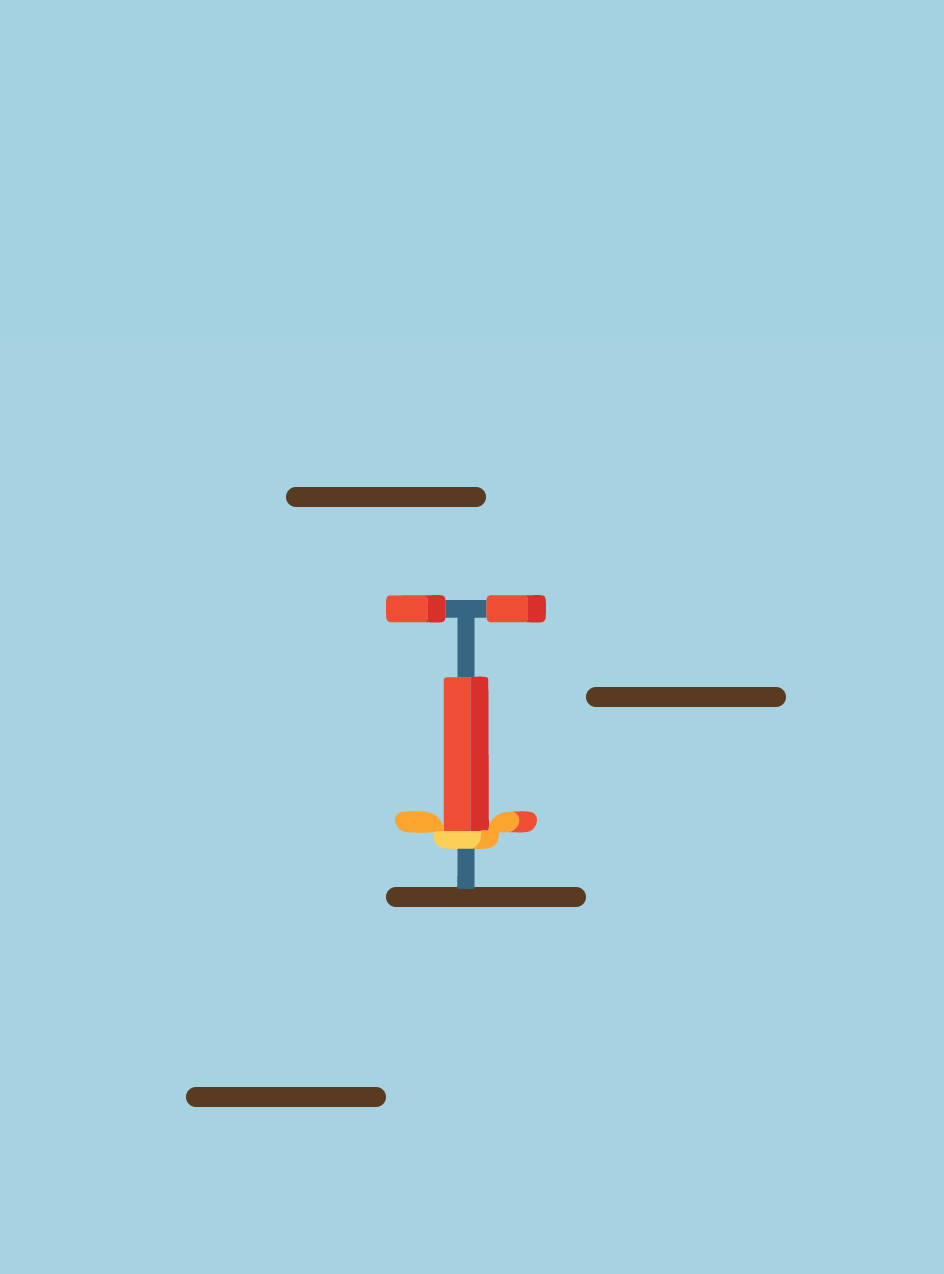
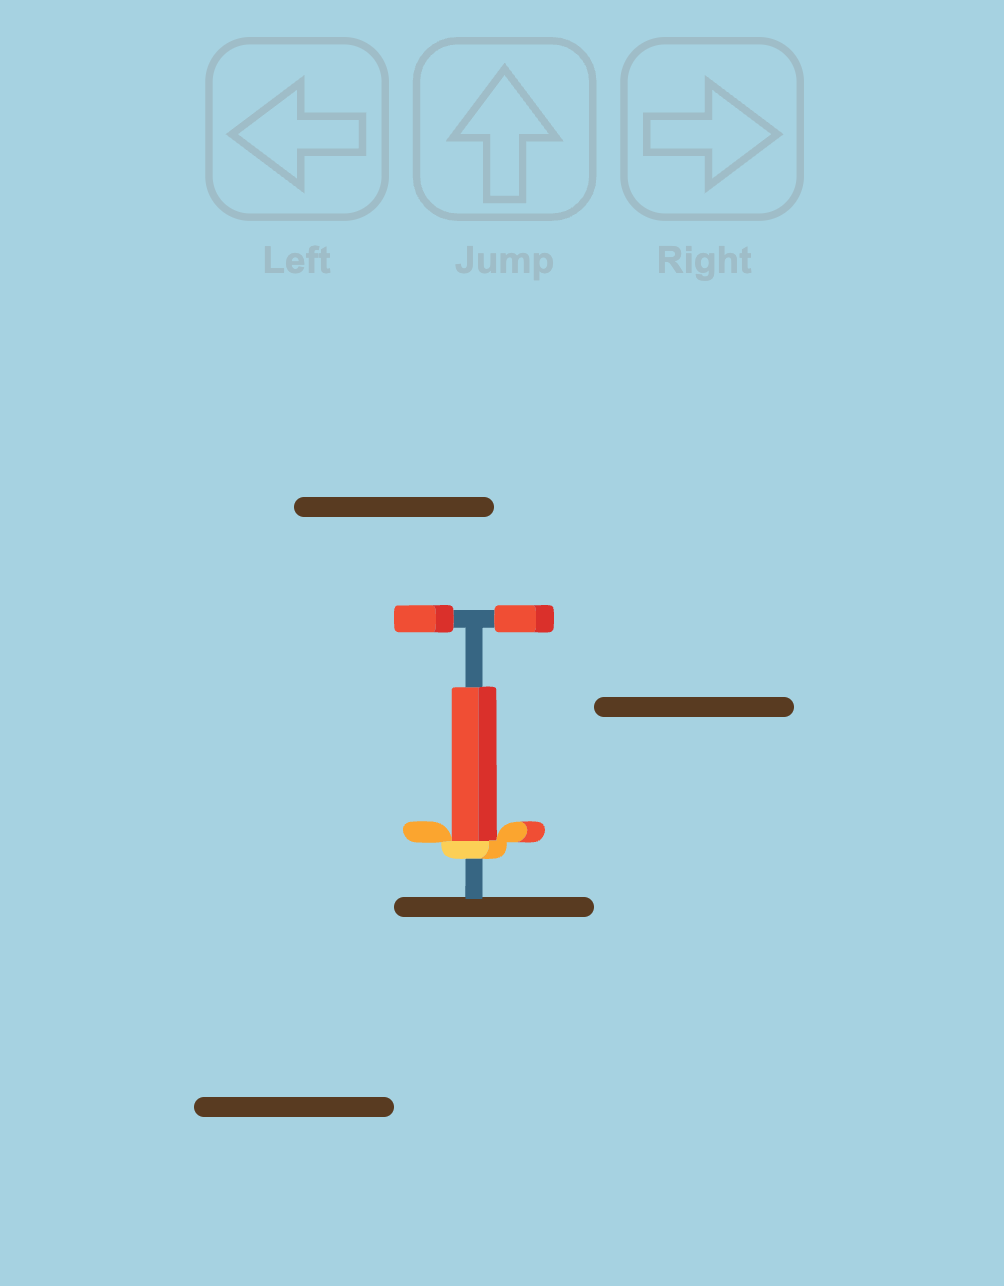
now with navigation

diff --git a/index.html b/index.html
@@ -8,7 +8,13 @@
 </head>
 <body>
     <div id="game-container">
+        <!-- Hintergrundgrafik -->
+        <img id="background-controls" src="assets/images/navigation.svg" alt="Controls">
+        
+        <!-- Pogostick -->
         <img id="pogostick" src="assets/images/pogo.svg" alt="Pogostick">
+        
+        <!-- Plattformen -->
         <div class="platform" style="top: 550px; left: 100px;"></div>
         <div class="platform" style="top: 450px; left: 200px;"></div>
         <div class="platform" style="top: 250px; left: 150px;"></div>
